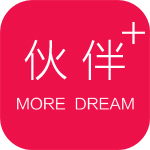
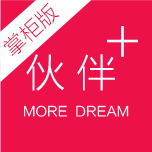
会员显示以及页面

diff --git a/src/main/webapp/appabout.html b/src/main/webapp/appabout.html
@@ -75,10 +75,10 @@
     </style>
 <body>
 <div class="neirongye">
-    <P style="text-align:center"><img src="resources/images/150X150.jpg" style=" width:80px; margin:20px 10px 0px 10px;" /></P>
+    <P style="text-align:center"><img src="resources/images/150X150.jpg" style=" width:80px; margin:20px 10px 0px 10px;border-radius:10px" /></P>
     <p style="margin:10px 20px; margin-top:16px;">
-        我们版致力于成为商城卖家在微商领域最得力的伙伴。
-        商家版通过手机，实时掌握商城动态，提升卖家经营效率。
+        我们致力于成为商城卖家在微商领域最得力的伙伴。
+        掌柜版通过手机，实时掌握商城动态，提升卖家经营效率。
         智能在线统计商家销售额、订单成交量、管理线上线下商品，查看会员信息，跟进物流信息。从此更省心更高效！
 
     </p>

diff --git a/src/main/java/com/huotu/huobanmall/controller/ReportController.java b/src/main/java/com/huotu/huobanmall/controller/ReportController.java
@@ -263,37 +263,49 @@ public class ReportController implements ReportSystem {
         Long todayCountMemberAmount = mapTodayMember.values().stream().mapToInt(x -> x).summaryStatistics().getSum();
         todayMemberAmount.outputData(todayCountMemberAmount);
 
+        Integer[] members=DateHelper.getValueOrdinate();
+        for (Map.Entry<Integer, Integer> entry : mapTodayMember.entrySet()) {
+            members[(entry.getKey()-1)/3] += entry.getValue();
+        }
+        todayMemberAmounts.outputData(members);
+
         //今日分销商
         Map<Integer, Integer> mapTodayPartner = countService.todayPartner(apm.getCurrentUser());
         Long todayCountPartnerAmount = mapTodayPartner.values().stream().mapToInt(x -> x).summaryStatistics().getSum();
         todayPartnerAmount.outputData(todayCountPartnerAmount);
 
-        //合并今日会员和分销商
-        List<Integer> listTodayTimes = new ArrayList<>();
-        for (Integer hour : mapTodayMember.keySet()) {
-            if (!listTodayTimes.contains(hour)) listTodayTimes.add(hour);
+        Integer[] partners=DateHelper.getValueOrdinate();
+        for (Map.Entry<Integer, Integer> entry : mapTodayPartner.entrySet()) {
+            partners[(entry.getKey()-1)/3] += entry.getValue();
         }
-        for (Integer hour : mapTodayPartner.keySet()) {
-            if (!listTodayTimes.contains(hour)) listTodayTimes.add(hour);
-        }
-        Collections.sort(listTodayTimes);
-        todayTimes.outputData(listTodayTimes.toArray(new Integer[listTodayTimes.size()]));
+        todayPartnerAmounts.outputData(partners);
 
-        List<Integer> listTodayMemberAmounts = new ArrayList<>();
-        List<Integer> listTodayPartnerAmounts = new ArrayList<>();
-        for (Integer hour : listTodayTimes) {
-            if (mapTodayMember.get(hour) == null)
-                listTodayMemberAmounts.add(0);
-            else
-                listTodayMemberAmounts.add(mapTodayMember.get(hour));
+//        //合并今日会员和分销商
+//        List<Integer> listTodayTimes = new ArrayList<>();
+//        for (Integer hour : mapTodayMember.keySet()) {
+//            if (!listTodayTimes.contains(hour)) listTodayTimes.add(hour);
+//        }
+//        for (Integer hour : mapTodayPartner.keySet()) {
+//            if (!listTodayTimes.contains(hour)) listTodayTimes.add(hour);
+//        }
+//        Collections.sort(listTodayTimes);
+//        todayTimes.outputData(listTodayTimes.toArray(new Integer[listTodayTimes.size()]));
+//
+//        List<Integer> listTodayMemberAmounts = new ArrayList<>();
+//        List<Integer> listTodayPartnerAmounts = new ArrayList<>();
+//        for (Integer hour : listTodayTimes) {
+//            if (mapTodayMember.get(hour) == null)
+//                listTodayMemberAmounts.add(0);
+//            else
+//                listTodayMemberAmounts.add(mapTodayMember.get(hour));
+//
+//            if (mapTodayPartner.get(hour) == null)
+//                listTodayPartnerAmounts.add(0);
+//            else
+//                listTodayPartnerAmounts.add(mapTodayPartner.get(hour));
+//        }
 
-            if (mapTodayPartner.get(hour) == null)
-                listTodayPartnerAmounts.add(0);
-            else
-                listTodayPartnerAmounts.add(mapTodayPartner.get(hour));
-        }
-        todayMemberAmounts.outputData(listTodayMemberAmounts.toArray(new Integer[listTodayMemberAmounts.size()]));
-        todayPartnerAmounts.outputData(listTodayPartnerAmounts.toArray(new Integer[listTodayPartnerAmounts.size()]));
+
 
 
         //周会员量
